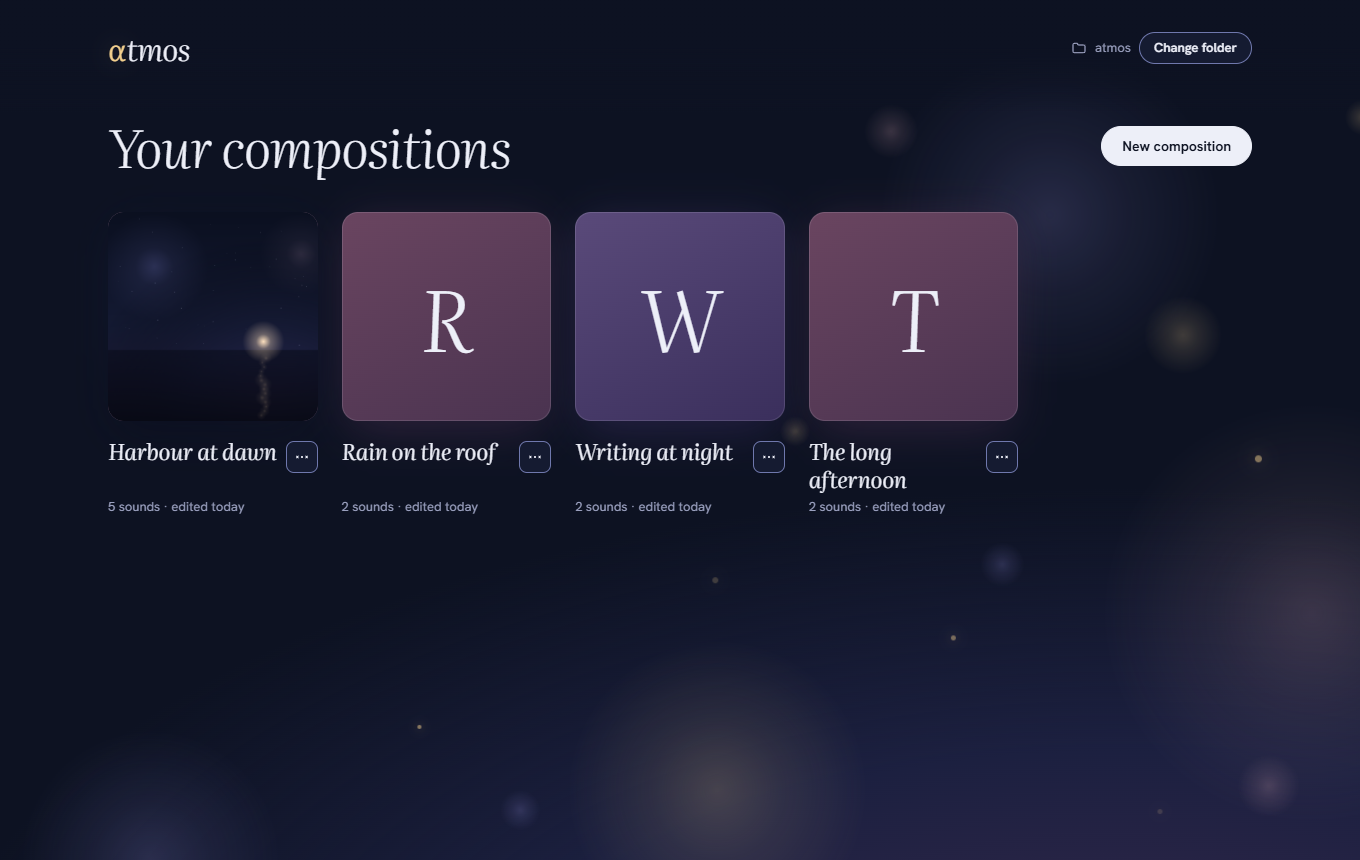
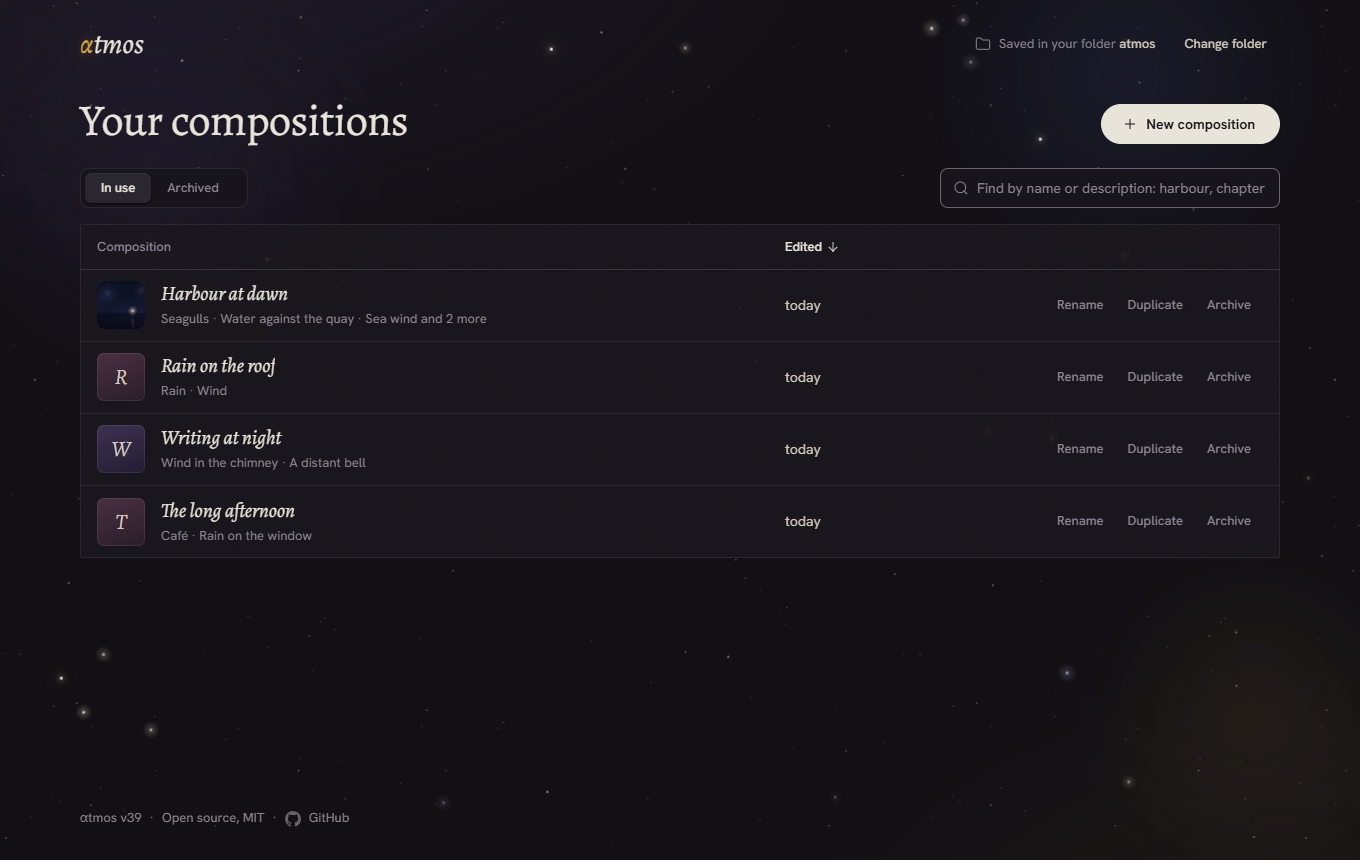
README: retake the two screenshots with the new look

diff --git a/README.md b/README.md
@@ -17,7 +17,7 @@ is no account, and there is nothing to install unless you want to.
 
 ![Your compositions, each with its own cover](assets/screenshots/compositions.png)
 
-![A composition open, playing, with the effects panel showing its ready-made places](assets/screenshots/editor.png)
+![A composition open, playing, with the settings of one sound unfolded under its line](assets/screenshots/editor.png)
 
 ---
 
